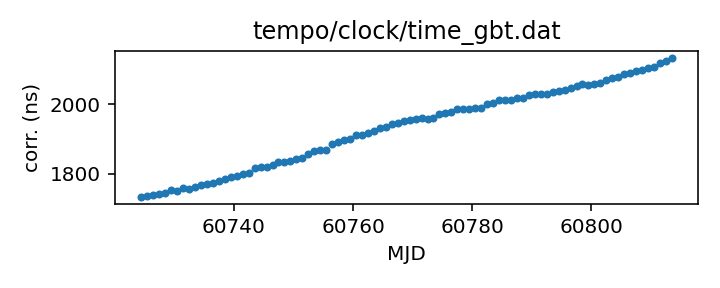
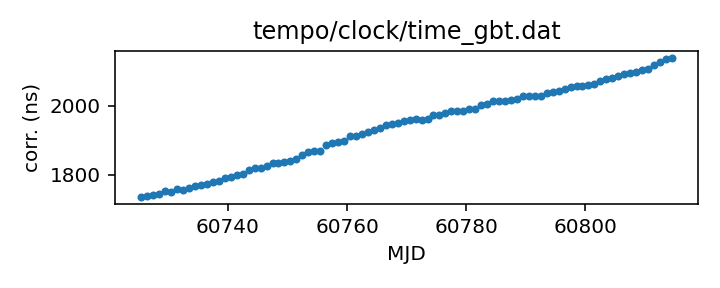
Routine gh-pages update from Github action Tue May 20 20:42:57 UTC 2025

diff --git a/status.md b/status.md
@@ -13,18 +13,18 @@ name of each clock file links to a page with more details.
 
 | Name | File | Corrections start | Corrections end | Last check date | Last check result 
 |:--- |:--- | --- | --- | --- |:--- 
-| [GPS to UTC](T2runtime/clock/gps2utc.clk.html) | `T2runtime/clock/gps2utc.clk` | 1993-01-01 MJD 48988.0 | 2025-04-29 MJD 60794.0 | 2025-05-19 | Unchanged 
-| [GPS to UTC (Combined Clock)](T2runtime/clock/gps2utc_cc.clk.html) | `T2runtime/clock/gps2utc_cc.clk` | 1993-01-01 MJD 48988.0 | 2025-04-29 MJD 60794.0 | 2025-05-19 | Unchanged 
-| [GPS to UTC (Corrected)](T2runtime/clock/gps2utc_c0p.clk.html) | `T2runtime/clock/gps2utc_c0p.clk` | 2010-12-29 MJD 55559.0 | 2025-04-29 MJD 60794.0 | 2025-05-19 | Unchanged 
-| [GBT](tempo/clock/time_gbt.dat.html) | `tempo/clock/time_gbt.dat` | 2000-12-31 MJD 51909.5 | 2025-05-18 MJD 60813.5 | 2025-05-19 | Updated 
-| [GBT (TEMPO2 converted from TEMPO)](T2runtime/clock/gbt2gps.clk.html) | `T2runtime/clock/gbt2gps.clk` | 2000-12-31 MJD 51909.5 | 2024-05-18 MJD 60448.5 | 2025-05-19 | **Validation failed** 
+| [GPS to UTC](T2runtime/clock/gps2utc.clk.html) | `T2runtime/clock/gps2utc.clk` | 1993-01-01 MJD 48988.0 | 2025-04-29 MJD 60794.0 | 2025-05-20 | Unchanged 
+| [GPS to UTC (Combined Clock)](T2runtime/clock/gps2utc_cc.clk.html) | `T2runtime/clock/gps2utc_cc.clk` | 1993-01-01 MJD 48988.0 | 2025-04-29 MJD 60794.0 | 2025-05-20 | Unchanged 
+| [GPS to UTC (Corrected)](T2runtime/clock/gps2utc_c0p.clk.html) | `T2runtime/clock/gps2utc_c0p.clk` | 2010-12-29 MJD 55559.0 | 2025-04-29 MJD 60794.0 | 2025-05-20 | Unchanged 
+| [GBT](tempo/clock/time_gbt.dat.html) | `tempo/clock/time_gbt.dat` | 2000-12-31 MJD 51909.5 | 2025-05-19 MJD 60814.5 | 2025-05-20 | Updated 
+| [GBT (TEMPO2 converted from TEMPO)](T2runtime/clock/gbt2gps.clk.html) | `T2runtime/clock/gbt2gps.clk` | 2000-12-31 MJD 51909.5 | 2024-05-18 MJD 60448.5 | 2025-05-20 | **Validation failed** 
 | [Jodrell Bank](T2runtime/clock/jb2gps.clk.html) | `T2runtime/clock/jb2gps.clk` | 2006-10-13 MJD 54021.4 | 2024-11-07 MJD 60621.0 | 2025-05-19 | Unchanged 
 | [Jodrell Bank Roach](T2runtime/clock/jbroach2jb.clk.html) | `T2runtime/clock/jbroach2jb.clk` | 2006-10-13 MJD 54021.4 | 2018-03-20 MJD 58197.6 | 2025-05-19 | Unchanged 
 | [Jodrell Bank DFB](T2runtime/clock/jbdfb2jb.clk.html) | `T2runtime/clock/jbdfb2jb.clk` | 2006-10-13 MJD 54021.4 | 2021-02-22 MJD 59268.0 | 2025-05-19 | Unchanged 
 | [Meerkat (observatory)](T2runtime/clock/mk2utc_observatory.clk.html) | `T2runtime/clock/mk2utc_observatory.clk` | 2019-01-01 MJD 58484.0 | 2025-04-30 MJD 60796.0 | 2025-05-19 | Unchanged 
-| [Leap seconds](tempo/clock/leap.sec.html) | `tempo/clock/leap.sec` | 1972-07-01 MJD 41499.0 | 2017-01-01 MJD 57754.0 | 2025-05-19 | Unchanged 
-| [UT1 table](tempo/clock/ut1.dat.html) | `tempo/clock/ut1.dat` | 1973-01-02 MJD 41684.0 | 2026-05-23 MJD 61183.0 | 2025-05-19 | Unchanged 
-| [UT1 table](T2runtime/clock/ut1.dat.html) | `T2runtime/clock/ut1.dat` | 1973-01-02 MJD 41684.0 | 2026-05-23 MJD 61183.0 | 2025-05-19 | Unchanged 
+| [Leap seconds](tempo/clock/leap.sec.html) | `tempo/clock/leap.sec` | 1972-07-01 MJD 41499.0 | 2017-01-01 MJD 57754.0 | 2025-05-20 | Unchanged 
+| [UT1 table](tempo/clock/ut1.dat.html) | `tempo/clock/ut1.dat` | 1973-01-02 MJD 41684.0 | 2026-05-23 MJD 61183.0 | 2025-05-20 | Unchanged 
+| [UT1 table](T2runtime/clock/ut1.dat.html) | `T2runtime/clock/ut1.dat` | 1973-01-02 MJD 41684.0 | 2026-05-23 MJD 61183.0 | 2025-05-20 | Unchanged 
 
 
 

diff --git a/T2runtime/clock/gbt2gps.clk.md b/T2runtime/clock/gbt2gps.clk.md
@@ -25,12 +25,11 @@ If questions arise about the conversion, contact Anne Archibald
 | Clock file start | 2000-12-31 MJD 51909.5 |
 | Clock file end | 2024-05-18 MJD 60448.5 |
 | Update interval (days) | 1 |
-| Last update attempt | 2025-05-19 |
+| Last update attempt | 2025-05-20 |
 | Last update result | Validation failed |
 
 Log entries from the last few update attempts:
 ```
-2025-05-10 20:37:57.337 - Validation failed: New version of T2runtime/clock/gbt2gps.clk clock corrections differ from old version where they overlap in 11 places
 2025-05-11 20:38:19.050 - Validation failed: New version of T2runtime/clock/gbt2gps.clk clock corrections differ from old version where they overlap in 11 places
 2025-05-12 20:38:43.627 - Validation failed: New version of T2runtime/clock/gbt2gps.clk clock corrections differ from old version where they overlap in 11 places
 2025-05-13 20:42:09.495 - Validation failed: New version of T2runtime/clock/gbt2gps.clk clock corrections differ from old version where they overlap in 11 places
@@ -40,6 +39,7 @@ Log entries from the last few update attempts:
 2025-05-17 20:39:06.922 - Validation failed: New version of T2runtime/clock/gbt2gps.clk clock corrections differ from old version where they overlap in 11 places
 2025-05-18 20:39:17.300 - Validation failed: New version of T2runtime/clock/gbt2gps.clk clock corrections differ from old version where they overlap in 11 places
 2025-05-19 20:42:07.957 - Validation failed: New version of T2runtime/clock/gbt2gps.clk clock corrections differ from old version where they overlap in 11 places
+2025-05-20 20:42:34.659 - Validation failed: New version of T2runtime/clock/gbt2gps.clk clock corrections differ from old version where they overlap in 11 places
 ```
 [Full log](https://raw.githubusercontent.com/ipta/pulsar-clock-corrections/main/log/T2runtime/clock/gbt2gps.clk.log)
 

diff --git a/T2runtime/clock/gps2utc_cc.clk.md b/T2runtime/clock/gps2utc_cc.clk.md
@@ -29,12 +29,11 @@ about the BIPM's published corrections, contact <tai@bipm.org>.
 | Clock file start | 1993-01-01 MJD 48988.0 |
 | Clock file end | 2025-04-29 MJD 60794.0 |
 | Update interval (days) | 1 |
-| Last update attempt | 2025-05-19 |
+| Last update attempt | 2025-05-20 |
 | Last update result | Unchanged |
 
 Log entries from the last few update attempts:
 ```
-2025-05-10 20:37:53.231 - Unchanged
 2025-05-11 20:38:18.413 - Unchanged
 2025-05-12 20:38:41.978 - Failed to download: <urlopen error 530 Sorry, the maximum number of allowed clients (20) are already connected.>
 2025-05-13 20:42:09.234 - Updated
@@ -44,6 +43,7 @@ Log entries from the last few update attempts:
 2025-05-17 20:39:05.853 - Unchanged
 2025-05-18 20:39:15.329 - Unchanged
 2025-05-19 20:42:07.278 - Unchanged
+2025-05-20 20:42:34.110 - Unchanged
 ```
 [Full log](https://raw.githubusercontent.com/ipta/pulsar-clock-corrections/main/log/T2runtime/clock/gps2utc_cc.clk.log)
 

diff --git a/T2runtime/clock/gps2utc.clk.md b/T2runtime/clock/gps2utc.clk.md
@@ -32,12 +32,11 @@ about the BIPM's published corrections, contact <tai@bipm.org>.
 | Clock file start | 1993-01-01 MJD 48988.0 |
 | Clock file end | 2025-04-29 MJD 60794.0 |
 | Update interval (days) | 1 |
-| Last update attempt | 2025-05-19 |
+| Last update attempt | 2025-05-20 |
 | Last update result | Unchanged |
 
 Log entries from the last few update attempts:
 ```
-2025-05-10 20:37:53.208 - Unchanged
 2025-05-11 20:38:18.391 - Unchanged
 2025-05-12 20:38:40.470 - Failed to download: <urlopen error 530 Sorry, the maximum number of allowed clients (20) are already connected.>
 2025-05-13 20:42:09.175 - Updated
@@ -47,6 +46,7 @@ Log entries from the last few update attempts:
 2025-05-17 20:39:05.831 - Unchanged
 2025-05-18 20:39:15.306 - Unchanged
 2025-05-19 20:42:07.255 - Unchanged
+2025-05-20 20:42:34.088 - Unchanged
 ```
 [Full log](https://raw.githubusercontent.com/ipta/pulsar-clock-corrections/main/log/T2runtime/clock/gps2utc.clk.log)
 

diff --git a/tempo/clock/time_gbt.dat.md b/tempo/clock/time_gbt.dat.md
@@ -36,14 +36,13 @@ If questions arise, contact Ryan S. Lynch <rlynch@nrao.edu>.
 | Format | tempo |
 | Bogus last correction | False |
 | Clock file start | 2000-12-31 MJD 51909.5 |
-| Clock file end | 2025-05-18 MJD 60813.5 |
+| Clock file end | 2025-05-19 MJD 60814.5 |
 | Update interval (days) | 1 |
-| Last update attempt | 2025-05-19 |
+| Last update attempt | 2025-05-20 |
 | Last update result | Updated |
 
 Log entries from the last few update attempts:
 ```
-2025-05-10 20:37:57.284 - Updated
 2025-05-11 20:38:18.996 - Updated
 2025-05-12 20:38:43.418 - Updated
 2025-05-13 20:42:09.442 - Updated
@@ -53,6 +52,7 @@ Log entries from the last few update attempts:
 2025-05-17 20:39:06.868 - Updated
 2025-05-18 20:39:17.245 - Updated
 2025-05-19 20:42:07.720 - Updated
+2025-05-20 20:42:34.605 - Updated
 ```
 [Full log](https://raw.githubusercontent.com/ipta/pulsar-clock-corrections/main/log/tempo/clock/time_gbt.dat.log)
 

diff --git a/T2runtime/clock/gps2utc_c0p.clk.md b/T2runtime/clock/gps2utc_c0p.clk.md
@@ -30,12 +30,11 @@ about the BIPM's published corrections, contact <tai@bipm.org>.
 | Clock file start | 2010-12-29 MJD 55559.0 |
 | Clock file end | 2025-04-29 MJD 60794.0 |
 | Update interval (days) | 1 |
-| Last update attempt | 2025-05-19 |
+| Last update attempt | 2025-05-20 |
 | Last update result | Unchanged |
 
 Log entries from the last few update attempts:
 ```
-2025-05-10 20:37:53.239 - Unchanged
 2025-05-11 20:38:18.421 - Unchanged
 2025-05-12 20:38:42.871 - Updated
 2025-05-13 20:42:09.242 - Unchanged
@@ -45,6 +44,7 @@ Log entries from the last few update attempts:
 2025-05-17 20:39:05.861 - Unchanged
 2025-05-18 20:39:15.337 - Unchanged
 2025-05-19 20:42:07.286 - Unchanged
+2025-05-20 20:42:34.117 - Unchanged
 ```
 [Full log](https://raw.githubusercontent.com/ipta/pulsar-clock-corrections/main/log/T2runtime/clock/gps2utc_c0p.clk.log)
 

diff --git a/T2runtime/clock/ut1.dat.md b/T2runtime/clock/ut1.dat.md
@@ -30,12 +30,11 @@ If there are any questions, contact Anne Archibald
 | File start | 1973-01-02 MJD 41684.0 |
 | File end | 2026-05-23 MJD 61183.0 |
 | Update interval (days) | 0 |
-| Last update attempt | 2025-05-19 |
+| Last update attempt | 2025-05-20 |
 | Last update result | Unchanged |
 
 Log entries from the last few update attempts:
 ```
-2025-05-10 20:38:06.214 - Unchanged
 2025-05-11 20:38:28.029 - Unchanged
 2025-05-12 20:39:05.877 - Unchanged
 2025-05-13 20:42:18.441 - Unchanged
@@ -45,5 +44,6 @@ Log entries from the last few update attempts:
 2025-05-17 20:39:19.825 - Unchanged
 2025-05-18 20:39:27.594 - Unchanged
 2025-05-19 20:42:31.694 - Unchanged
+2025-05-20 20:42:42.646 - Unchanged
 ```
 [Full log](https://raw.githubusercontent.com/ipta/pulsar-clock-corrections/main/log/T2runtime/clock/ut1.dat.log)

diff --git a/tempo/clock/leap.sec.md b/tempo/clock/leap.sec.md
@@ -21,12 +21,11 @@ If there are any questions, contact Anne Archibald
 | File start | 1972-07-01 MJD 41499.0 |
 | File end | 2017-01-01 MJD 57754.0 |
 | Update interval (days) | 0 |
-| Last update attempt | 2025-05-19 |
+| Last update attempt | 2025-05-20 |
 | Last update result | Unchanged |
 
 Log entries from the last few update attempts:
 ```
-2025-05-10 20:37:57.363 - Unchanged
 2025-05-11 20:38:19.075 - Unchanged
 2025-05-12 20:38:58.053 - Unchanged
 2025-05-13 20:42:09.520 - Unchanged
@@ -36,5 +35,6 @@ Log entries from the last few update attempts:
 2025-05-17 20:39:06.947 - Unchanged
 2025-05-18 20:39:17.326 - Unchanged
 2025-05-19 20:42:23.488 - Unchanged
+2025-05-20 20:42:34.684 - Unchanged
 ```
 [Full log](https://raw.githubusercontent.com/ipta/pulsar-clock-corrections/main/log/tempo/clock/leap.sec.log)

diff --git a/tempo/clock/ut1.dat.md b/tempo/clock/ut1.dat.md
@@ -30,12 +30,11 @@ If there are any questions, contact Anne Archibald
 | File start | 1973-01-02 MJD 41684.0 |
 | File end | 2026-05-23 MJD 61183.0 |
 | Update interval (days) | 0 |
-| Last update attempt | 2025-05-19 |
+| Last update attempt | 2025-05-20 |
 | Last update result | Unchanged |
 
 Log entries from the last few update attempts:
 ```
-2025-05-10 20:38:06.165 - Unchanged
 2025-05-11 20:38:27.979 - Unchanged
 2025-05-12 20:39:05.826 - Unchanged
 2025-05-13 20:42:18.392 - Unchanged
@@ -45,5 +44,6 @@ Log entries from the last few update attempts:
 2025-05-17 20:39:19.775 - Unchanged
 2025-05-18 20:39:27.542 - Unchanged
 2025-05-19 20:42:31.643 - Unchanged
+2025-05-20 20:42:42.596 - Unchanged
 ```
 [Full log](https://raw.githubusercontent.com/ipta/pulsar-clock-corrections/main/log/tempo/clock/ut1.dat.log)
